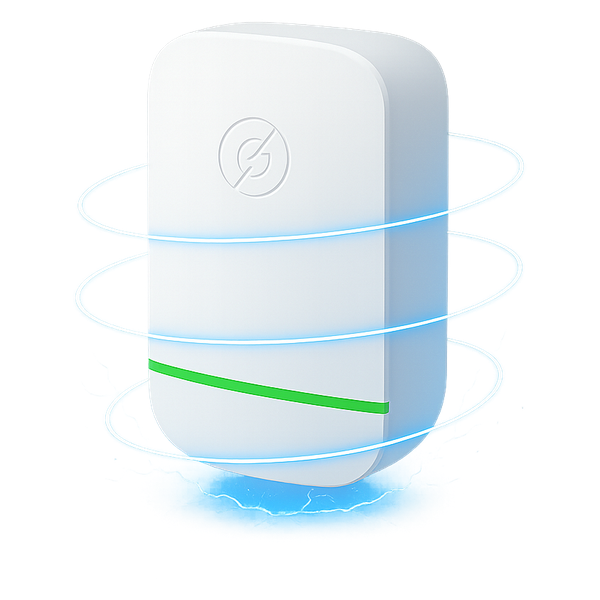
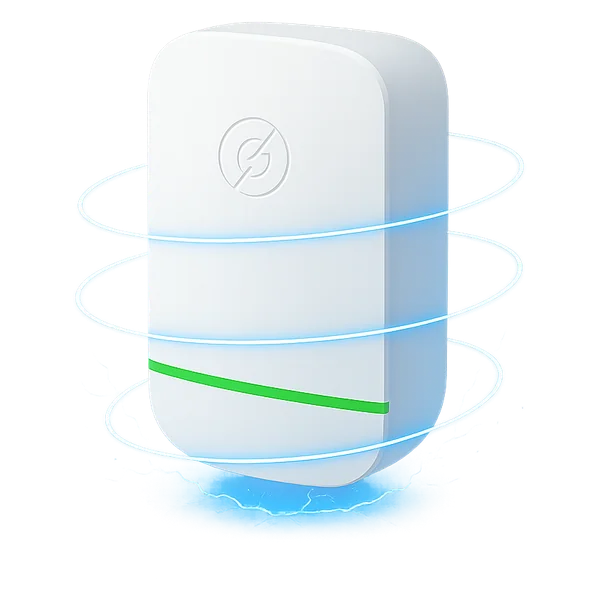
P249 VoltGuard BR: senior_fix css + lossy-alpha pack shots (stage 3)

diff --git a/voltguard-br/sp.css b/voltguard-br/sp.css
@@ -1123,3 +1123,12 @@
   color:#1F7A4A;font-weight:600;white-space:nowrap;}:where(#voltguard-br-sp-root) .vgb-ver img{width:16px !important;height:16px !important;max-width:16px !important;flex:none;}:where(#voltguard-br-sp-root) .vgz-tc-tx{margin:0;padding:6px 2px 12px;font-family:Poppins,Arial,sans-serif;font-size:16px;line-height:1.5;
   color:#303030;text-align:left;white-space:normal !important;}:where(#voltguard-br-sp-root) .vgz-foot{max-width:820px;margin:0 auto;padding:14px 14px 24px;text-align:center;font-family:Inter,Arial,sans-serif;
   font-size:15px;line-height:1.8;color:#333;}:where(#voltguard-br-sp-root) .vgz-foot p{margin:4px 0;}:where(#voltguard-br-sp-root) .vgz-foot a{color:#1d4f91;text-decoration:underline;display:inline-block;padding:4px 2px;}:where(#voltguard-br-sp-root) .vgz-foot .vgz-brand{font-weight:800;font-size:18px;color:#1d1d1d;}:where(#voltguard-br-sp-root) .vgb-sec{width:100%;max-width:640px;margin:8px auto 4px;box-sizing:border-box;}:where(#voltguard-br-sp-root) .vgb-mq{display:block;width:100%;}:where(#voltguard-br-sp-root) section.vgb-mqsec{background:#fff !important;}:where(#voltguard-br-sp-root) .el-339348 h1, :where(#voltguard-br-sp-root) .el-339348 h2, :where(#voltguard-br-sp-root) .el-339348 h3, :where(#voltguard-br-sp-root) .el-339348 p, :where(#voltguard-br-sp-root) .el-339348 span{font-size:34px !important;line-height:1.2 !important;}:where(#voltguard-br-sp-root) .el-106687 span{font-size:30px !important;}:where(#voltguard-br-sp-root) .el-106687 p, :where(#voltguard-br-sp-root) .el-106687 div{font-size:20px !important;white-space:nowrap !important;}:where(#voltguard-br-sp-root) .el-453326 h3, :where(#voltguard-br-sp-root) .el-453326 strong, :where(#voltguard-br-sp-root) .el-453326 span{font-size:16px !important;white-space:nowrap !important;display:inline !important;}:where(#voltguard-br-sp-root) .el-420808 span, :where(#voltguard-br-sp-root) .el-465389 span, :where(#voltguard-br-sp-root) .el-426694 span, :where(#voltguard-br-sp-root) .el-922123 span, :where(#voltguard-br-sp-root) .el-196114 span, :where(#voltguard-br-sp-root) .el-420808 p, :where(#voltguard-br-sp-root) .el-465389 p, :where(#voltguard-br-sp-root) .el-426694 p, :where(#voltguard-br-sp-root) .el-922123 p, :where(#voltguard-br-sp-root) .el-196114 p{font-size:20px !important;line-height:1.5 !important;}:where(#voltguard-br-sp-root) .el-876483 p, :where(#voltguard-br-sp-root) .el-876483 span, :where(#voltguard-br-sp-root) .el-876483 div{font-size:16px !important;}:where(#voltguard-br-sp-root) .el-886904 h3{font-size:16px !important;}:where(#voltguard-br-sp-root) .el-949863 p, :where(#voltguard-br-sp-root) .el-280847 p, :where(#voltguard-br-sp-root) .el-963099 p{font-size:18px !important;}:where(#voltguard-br-sp-root) .el-128129 h3, :where(#voltguard-br-sp-root) .el-128129 strong{font-size:clamp(28px,7.7vw,30px) !important;line-height:1.2 !important;}:where(#voltguard-br-sp-root) .el-331315 p, :where(#voltguard-br-sp-root) .el-331315 span, :where(#voltguard-br-sp-root) .el-82411 p, :where(#voltguard-br-sp-root) .el-82411 span, :where(#voltguard-br-sp-root) .el-803010 p, :where(#voltguard-br-sp-root) .el-406349 p, :where(#voltguard-br-sp-root) .el-120926 p, :where(#voltguard-br-sp-root) .el-120926 span{font-size:19px !important;line-height:1.35 !important;}:where(#voltguard-br-sp-root) .element-wrapper.sticky_show_after.visible{display:block !important;}:where(#voltguard-br-sp-root) .sticky_show_after.visible section.section{width:100% !important;align-self:stretch !important;}
+
+#voltguard-br-sp-root :is(.el-12382 p, .el-220917 p, .el-227775 p, .el-227775 strong, .el-367465 p, .el-367465 strong, .el-384476 p, .el-384476 strong, .el-571047 p, .el-571226 span, .el-644219 p, .el-679813 p, .el-808678 div.faq-title, .el-95859 p, .el-95859 strong){ font-size:18px !important; line-height:1.50 !important; }
+#voltguard-br-sp-root :is(.el-12382 span, .el-18949 strong, .el-241354 strong, .el-414346 span, .el-871810 strong){ font-size:17px !important; line-height:1.30 !important; font-weight:700 !important; }
+#voltguard-br-sp-root :is(.el-28660 em, .el-366082 span, .el-468130 span, .el-56368 p, .el-56368 strong, .el-602538 span, .el-665866 p, .el-733751 p, .el-811988 span, .el-897906 span, .el-909766 span, .el-950237 p){ font-size:14px !important; line-height:1.30 !important; }
+#voltguard-br-sp-root :is(.el-128465 p, .el-303734 p, .el-670862 p){ color:#6b6f77 !important; }
+#voltguard-br-sp-root :is(.el-229475 p, .el-287095 p){ color:#72777f !important; }
+#voltguard-br-sp-root :is(.el-301952 strong, .el-660361 strong){ color:#03a671 !important; }
+#voltguard-br-sp-root :is(.el-400783){ background-color:#eb0000 !important; background-image:none !important; }
+#voltguard-br-sp-root :is(.el-18008 a.btn, .el-381712 a.btn, .el-455699 a.btn, .el-498772 a.btn, .el-551530 a.btn, .el-951073 a.btn){ background-color:#158642 !important; background-image:none !important; }

diff --git a/voltguard-br/art.css b/voltguard-br/art.css
@@ -1255,3 +1255,10 @@
   font-family:Helvetica,Arial,sans-serif;color:#1c1e21;text-align:left;box-sizing:border-box;width:100%;}:where(#voltguard-br-art-root) .vgz-fb *{box-sizing:border-box;}:where(#voltguard-br-art-root) .vgz-fhd{display:flex;align-items:center;gap:10px;}:where(#voltguard-br-art-root) .vgz-fav{width:44px !important;height:44px !important;border-radius:50%;object-fit:cover;flex:none;}:where(#voltguard-br-art-root) .vgz-fwho{display:flex;flex-direction:column;flex:1 1 auto;min-width:0;}:where(#voltguard-br-art-root) .vgz-fwho b{font-size:17px;color:#385898;line-height:1.25;}:where(#voltguard-br-art-root) .vgz-fwho span{font-size:14px;line-height:1.3;color:#65676b;}:where(#voltguard-br-art-root) .vgz-fdots{color:#65676b;font-size:20px;letter-spacing:1px;}:where(#voltguard-br-art-root) .vgz-ftx{font-size:18px;line-height:1.45;margin:10px 0;}:where(#voltguard-br-art-root) .vgz-fph{display:block;width:100% !important;height:auto !important;border-radius:4px;margin:0 0 8px;}:where(#voltguard-br-art-root) .vgz-frx{line-height:1.4;display:flex;justify-content:space-between;font-size:15px;color:#65676b;padding:4px 0 8px;
   border-bottom:1px solid #e4e6eb;}:where(#voltguard-br-art-root) .vgz-fac{line-height:1.4;display:flex;justify-content:space-around;font-size:16px;color:#65676b;font-weight:700;
   padding:8px 0;border-bottom:1px solid #e4e6eb;margin-bottom:8px;}:where(#voltguard-br-art-root) .vgz-fc{display:flex;gap:8px;align-items:flex-start;margin:0 0 10px;}:where(#voltguard-br-art-root) .vgz-fc .vgz-fav{width:36px !important;height:36px !important;}:where(#voltguard-br-art-root) .vgz-fcw{flex:1 1 auto;min-width:0;}:where(#voltguard-br-art-root) .vgz-fcb{background:#f0f2f5;border-radius:14px;padding:8px 12px;}:where(#voltguard-br-art-root) .vgz-fcb b{display:block;font-size:16px;line-height:1.3;color:#385898;}:where(#voltguard-br-art-root) .vgz-fcb p{font-size:17px;line-height:1.4;margin:2px 0 0;}:where(#voltguard-br-art-root) .vgz-fcm{line-height:1.4;font-size:14px;color:#65676b;margin:3px 0 0 10px;font-weight:600;}:where(#voltguard-br-art-root) .vgz-by{display:flex;align-items:center;gap:12px;margin:12px 0 12px;padding:0 10px;box-sizing:border-box;width:100%;}:where(#voltguard-br-art-root) .vgz-by-ph{width:56px !important;height:56px !important;border-radius:50%;object-fit:cover;flex:none;}:where(#voltguard-br-art-root) .vgz-by-tx{min-width:0;flex:1 1 auto;font-family:Inter,Arial,sans-serif;}:where(#voltguard-br-art-root) .vgz-by-nm{display:flex;align-items:center;gap:6px;font-size:16px;line-height:1.3;color:#303030;}:where(#voltguard-br-art-root) .vgz-by-nm img{width:18px !important;height:18px !important;flex:none;}:where(#voltguard-br-art-root) .vgz-by-nm b{font-weight:700;}:where(#voltguard-br-art-root) .vgz-by-mt{font-size:16px;line-height:1.3;color:#666;margin-top:2px;}
+
+#voltguard-br-art-root :is(.el-121738 p, .el-122342 p, .el-133416 p, .el-176601 p, .el-188772 p, .el-250308 p, .el-250308 strong, .el-290100 p, .el-293333 p, .el-296552 p, .el-302855 p, .el-364939 p, .el-424461 p, .el-533697 p, .el-533697 strong, .el-539705 p, .el-722564 p, .el-763762 p, .el-834742 p, .el-838624 p, .el-971856 p){ font-size:18px !important; line-height:1.50 !important; }
+#voltguard-br-art-root :is(.el-121738 span){ line-height:1.50 !important; }
+#voltguard-br-art-root :is(.el-193769 b, .el-203830 strong, .el-212259 strong, .el-290100 strong, .el-539705 strong, .el-575658 strong, .el-773718 strong, .el-834742 strong, .el-926359 strong, .el-92754 strong){ font-size:17px !important; line-height:1.30 !important; font-weight:700 !important; }
+#voltguard-br-art-root :is(.el-641699 span.btn-headline, .el-850244 span.btn-headline){ font-size:18px !important; line-height:1.30 !important; }
+#voltguard-br-art-root :is(.el-348025 strong, .el-445869 strong, .el-636434 strong){ color:#126ab5 !important; }
+#voltguard-br-art-root :is(.el-641699 a.btn, .el-850244 a.btn){ background-color:#1c8908 !important; background-image:none !important; }
